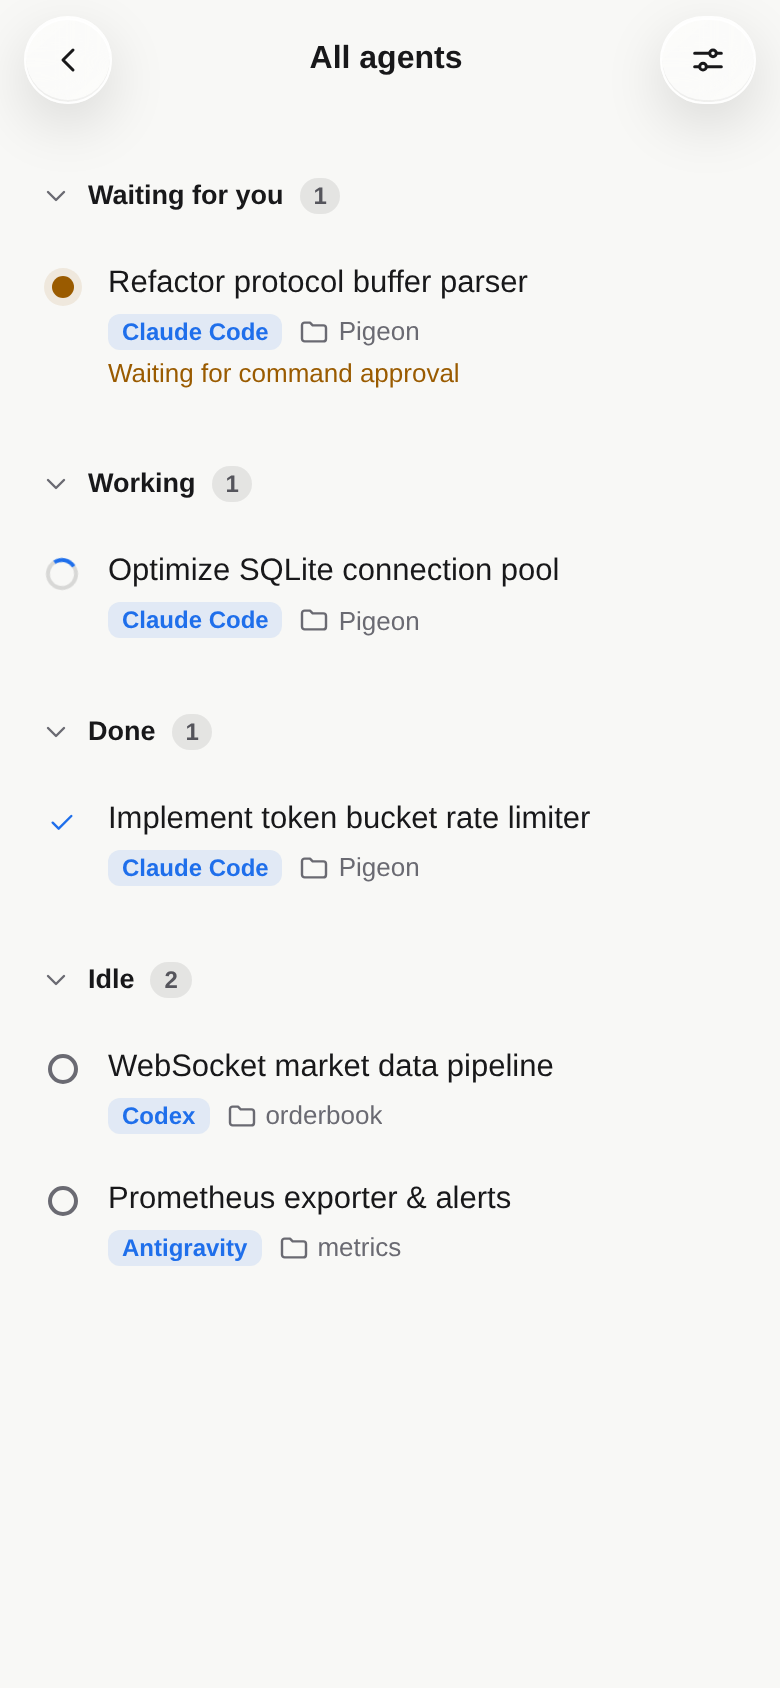
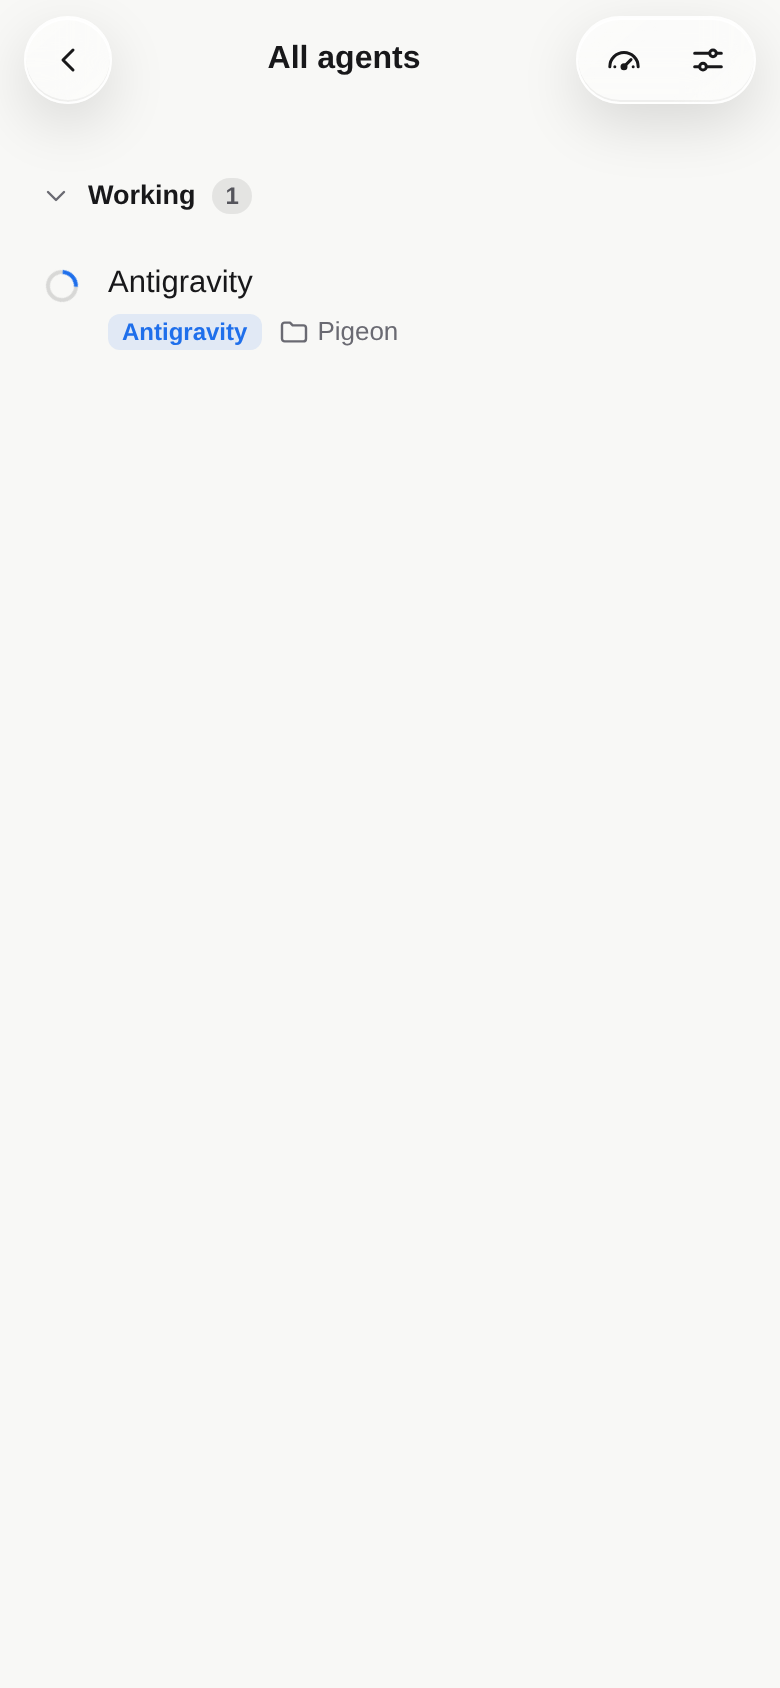
docs: streamline showcase to 9 core screens replacing new/resume with quota/usage

diff --git a/README.md b/README.md
@@ -50,13 +50,13 @@ A small daemon runs alongside Herdr on your computer and serves the app over you
   </picture>
   &nbsp;
   <picture>
-    <source media="(prefers-color-scheme: dark)" srcset="docs/images/new-dark.png">
-    <img src="docs/images/new-light.png" width="260" alt="Start a new session with your chosen agent, model, and effort">
+    <source media="(prefers-color-scheme: dark)" srcset="docs/images/quota-dark.png">
+    <img src="docs/images/quota-light.png" width="260" alt="Track rate-limit windows, pace, and reset times across providers">
   </picture>
   &nbsp;
   <picture>
-    <source media="(prefers-color-scheme: dark)" srcset="docs/images/resume-dark.png">
-    <img src="docs/images/resume-light.png" width="260" alt="Pick up past sessions where you left off from agent-assigned titles">
+    <source media="(prefers-color-scheme: dark)" srcset="docs/images/usage-dark.png">
+    <img src="docs/images/usage-light.png" width="260" alt="Inspect token usage, estimated costs, and daily activity trends">
   </picture>
 </p>
 
